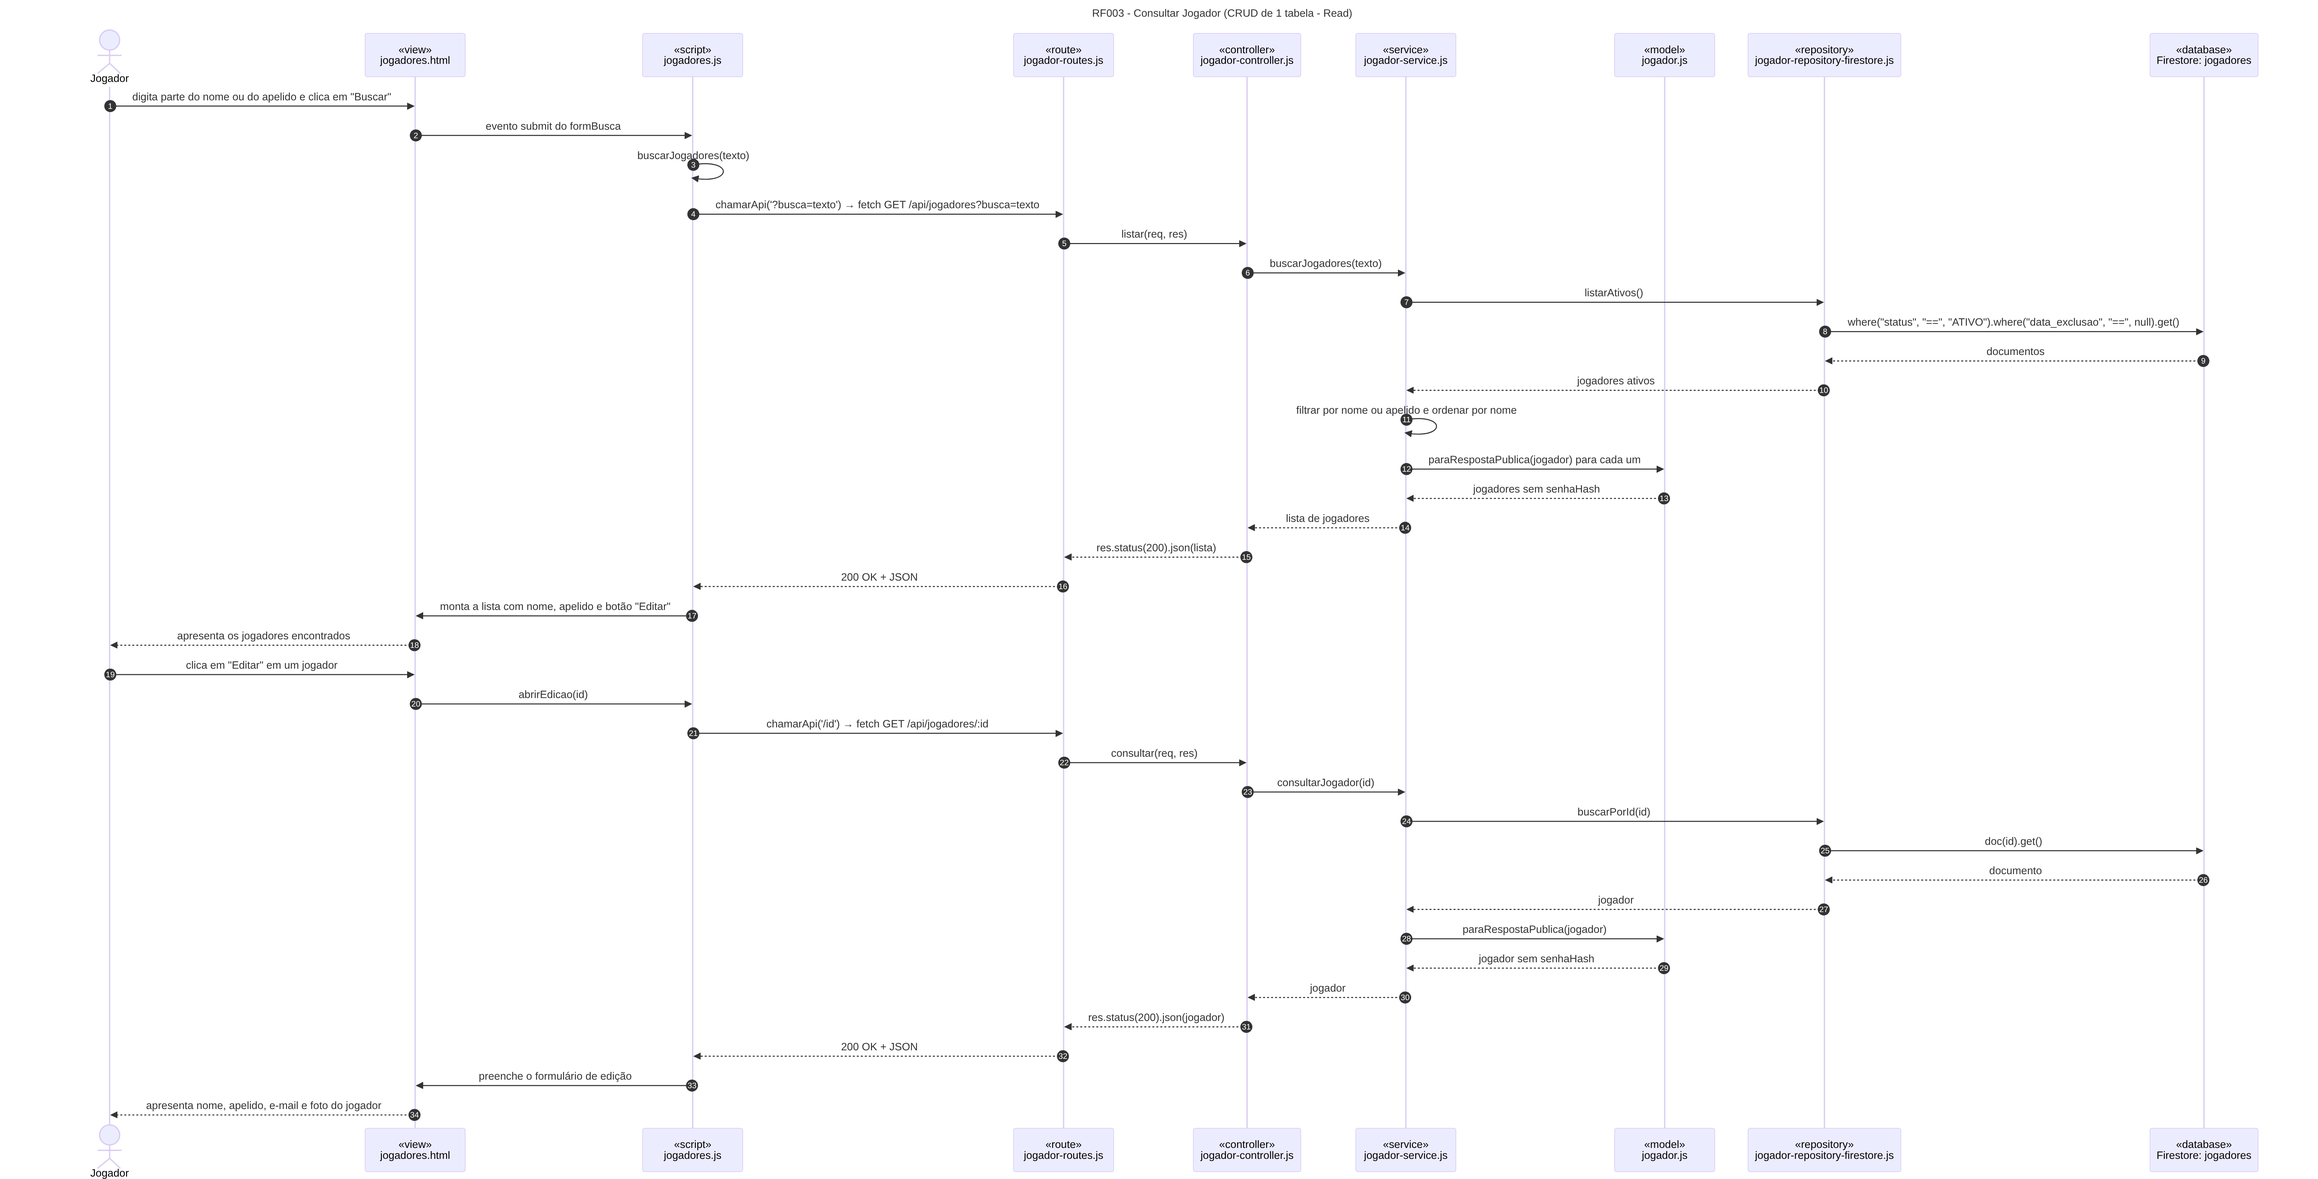
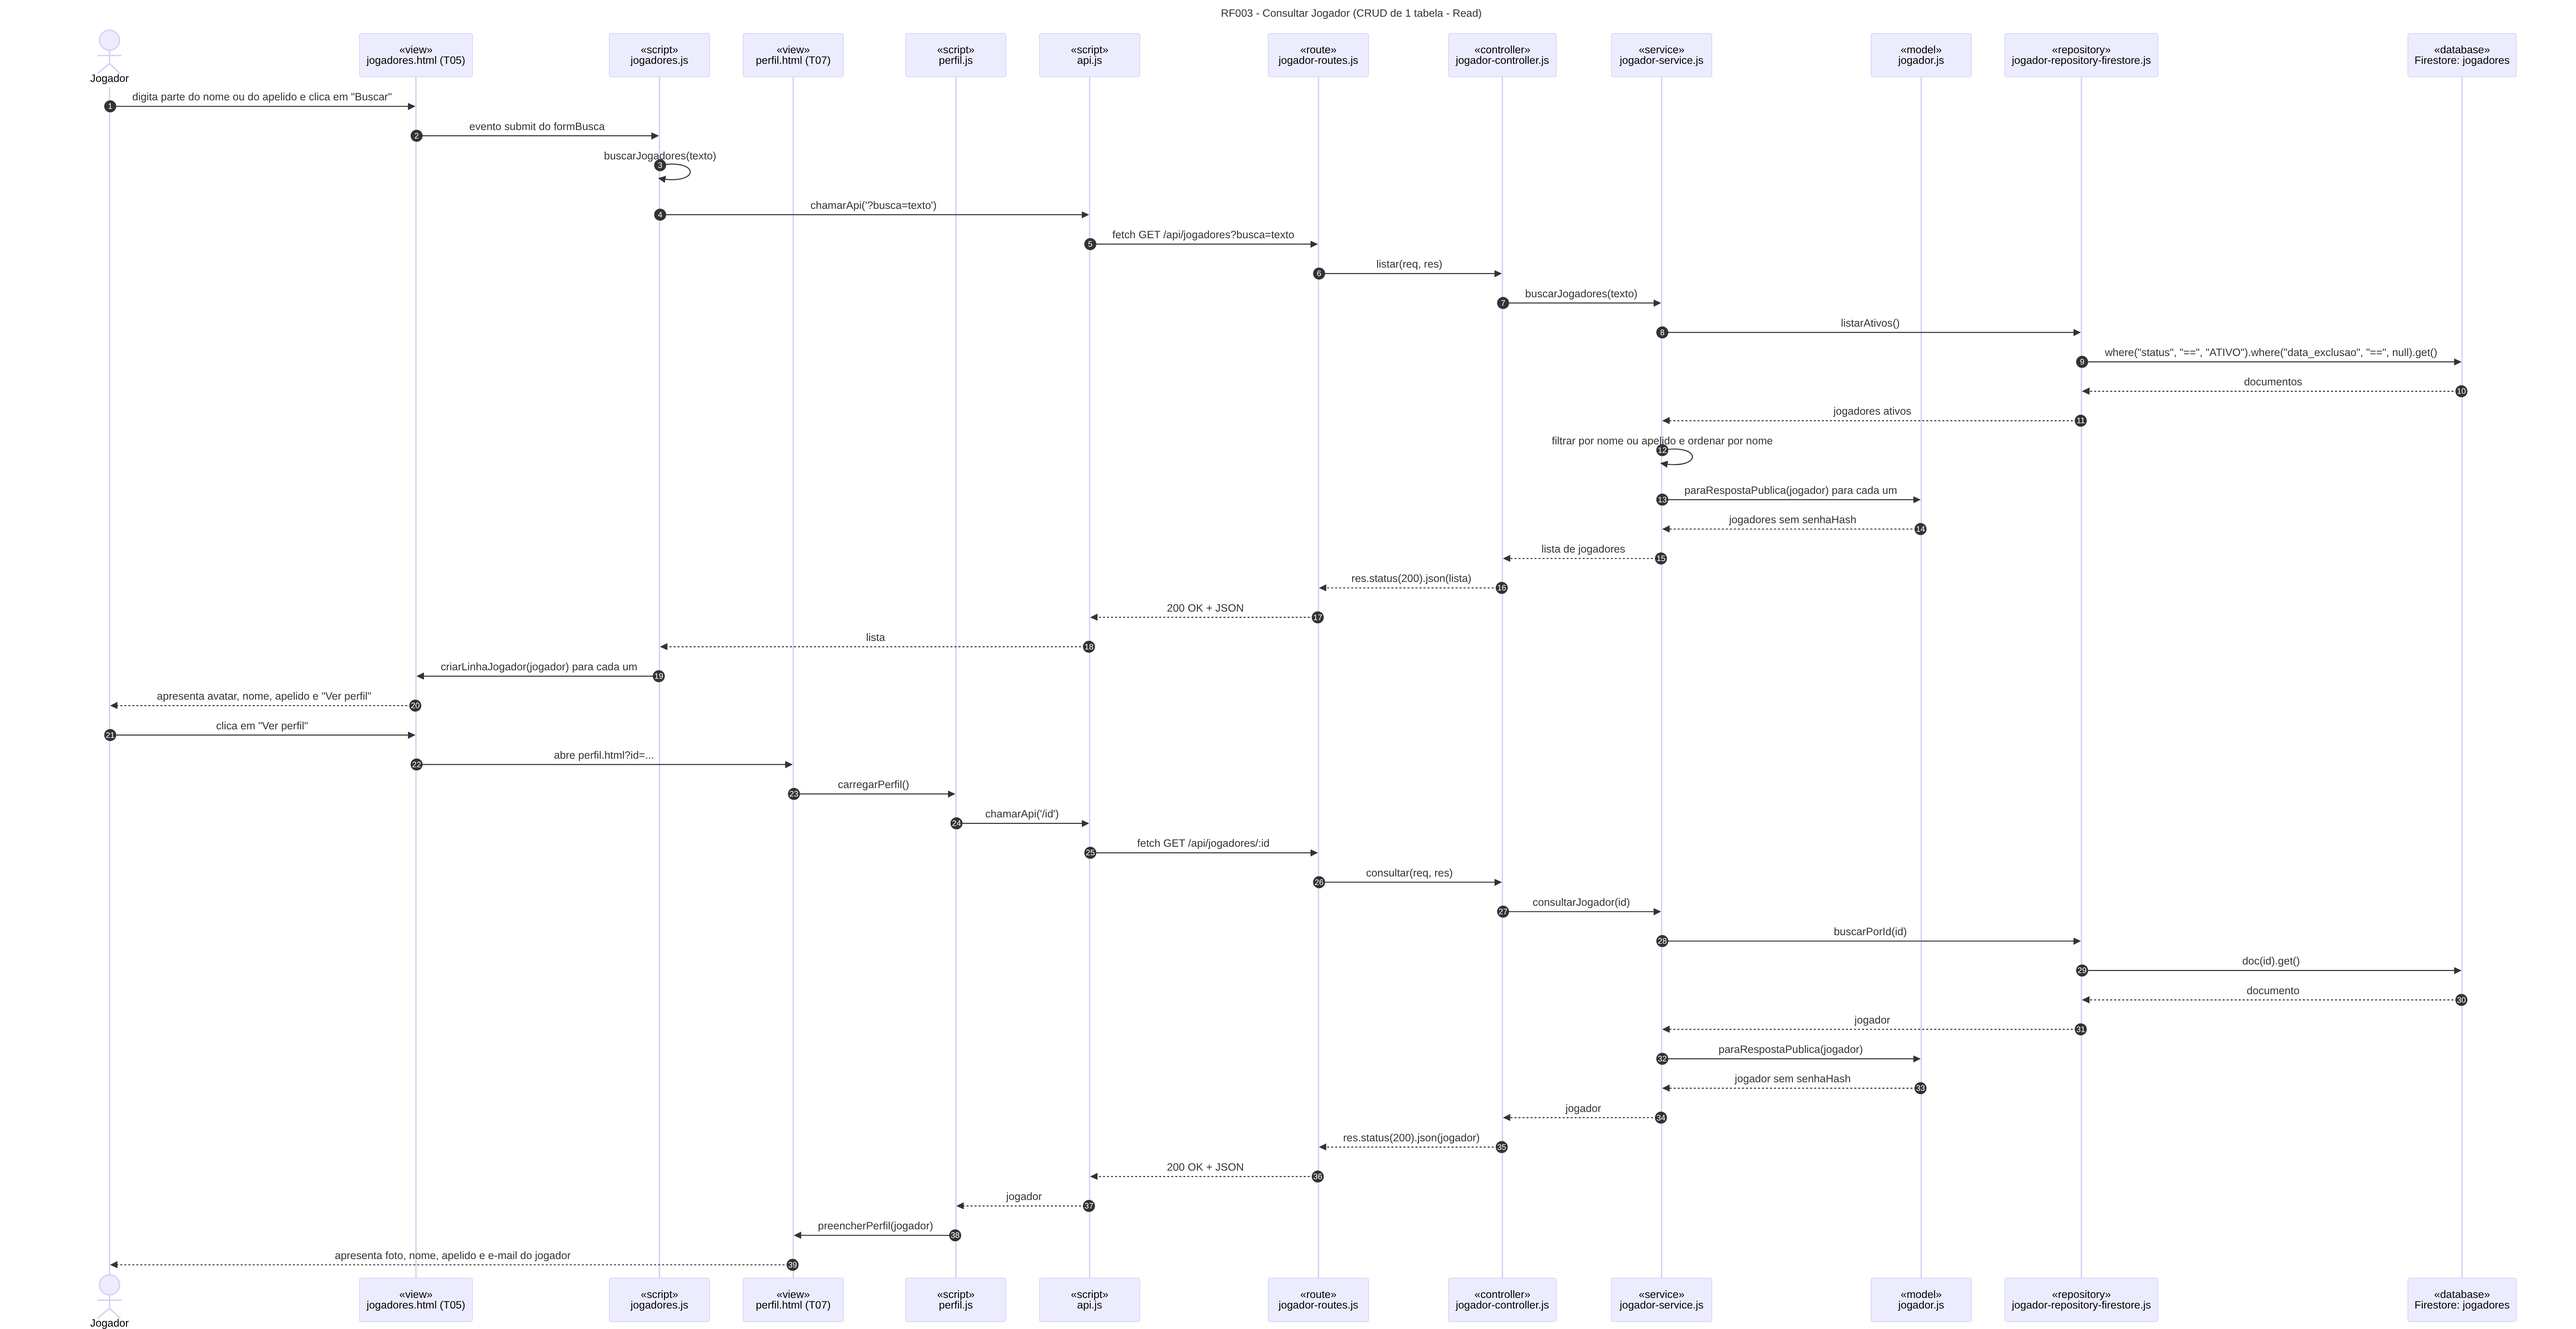
docs(diagramas): segue as telas separadas do protótipo nos diagramas
Os diagramas de sequência do CRUD de Jogador passam a usar
cadastro.html, jogadores.html e perfil.html, com os scripts de cada
tela e o api.js (chamarApi e jogador em uso no localStorage). Os
diagramas de pacotes e de implantação listam as novas páginas e
scripts.

diff --git a/docs/diagramas/README.md b/docs/diagramas/README.md
@@ -200,9 +200,9 @@ flowchart TB
         direction TB
         subgraph FRONT["📦 src/frontend  (front-end)"]
             direction LR
-            PAGES["📁 pages<br/><i>telas HTML</i><br/>index.html, jogadores.html, partidas.html"]
-            JS["📁 js<br/><i>scripts das telas</i><br/>jogadores.js, partidas.js"]
-            CSS["📁 css<br/><i>estilos</i><br/>style.css, jogadores.css"]
+            PAGES["📁 pages<br/><i>telas HTML</i><br/>index.html, cadastro.html, jogadores.html,<br/>perfil.html, partidas.html"]
+            JS["📁 js<br/><i>scripts das telas</i><br/>api.js, layout.js, logo.js, home.js, cadastro.js,<br/>jogadores.js, perfil.js, partidas.js"]
+            CSS["📁 css<br/><i>estilos</i><br/>style.css"]
         end
         ASSETS["📁 public/assets<br/><i>ícones e imagens</i>"]
         NETFN["📁 netlify/functions<br/>api.mjs<br/><i>roda o app Express no Netlify (serverless-http)</i>"]
@@ -272,8 +272,9 @@ title: "RF002 - Cadastrar Jogador (CRUD de 1 tabela - Create)"
 sequenceDiagram
     autonumber
     actor U as Jogador
-    participant T as «view»<br/>jogadores.html
-    participant S as «script»<br/>jogadores.js
+    participant T as «view»<br/>cadastro.html (T02)
+    participant S as «script»<br/>cadastro.js
+    participant A as «script»<br/>api.js
     participant R as «route»<br/>jogador-routes.js
     participant C as «controller»<br/>jogador-controller.js
     participant SV as «service»<br/>jogador-service.js
@@ -284,8 +285,10 @@ sequenceDiagram
 
     U->>T: preenche nome, apelido, e-mail, senha e confirmação e clica em "Criar conta"
     T->>S: evento submit do formCadastro
-    S->>S: lerFormulario(formCadastro)
-    S->>R: chamarApi('', POST) → fetch POST /api/jogadores
+    S->>A: lerFormulario(formCadastro)
+    A-->>S: dados
+    S->>A: chamarApi('', POST, dados)
+    A->>R: fetch POST /api/jogadores
     R->>C: cadastrar(req, res)
     C->>SV: cadastrarJogador(req.body)
     SV->>SV: validar nome, apelido, e-mail, senha e confirmação
@@ -309,10 +312,12 @@ sequenceDiagram
     M-->>SV: jogador sem senhaHash
     SV-->>C: jogador
     C-->>R: res.status(201).location(...).json(jogador)
-    R-->>S: 201 Created + JSON
-    S->>T: exibirMensagem("Conta criada com sucesso!")
-    S->>S: buscarJogadores() (recarrega a lista)
-    T-->>U: mostra a mensagem e a lista atualizada
+    R-->>A: 201 Created + JSON
+    A-->>S: jogador
+    S->>A: salvarJogadorAtual(jogador) (localStorage)
+    S->>A: exibirMensagem("Conta criada com sucesso! Abrindo a Home...")
+    S->>T: redireciona para index.html
+    T-->>U: apresenta a Home (T03)
 ```
 
 <a id="04-seq-consultar-jogador"></a>
@@ -328,8 +333,11 @@ title: "RF003 - Consultar Jogador (CRUD de 1 tabela - Read)"
 sequenceDiagram
     autonumber
     actor U as Jogador
-    participant T as «view»<br/>jogadores.html
+    participant T as «view»<br/>jogadores.html (T05)
     participant S as «script»<br/>jogadores.js
+    participant P as «view»<br/>perfil.html (T07)
+    participant PS as «script»<br/>perfil.js
+    participant A as «script»<br/>api.js
     participant R as «route»<br/>jogador-routes.js
     participant C as «controller»<br/>jogador-controller.js
     participant SV as «service»<br/>jogador-service.js
@@ -340,7 +348,8 @@ sequenceDiagram
     U->>T: digita parte do nome ou do apelido e clica em "Buscar"
     T->>S: evento submit do formBusca
     S->>S: buscarJogadores(texto)
-    S->>R: chamarApi('?busca=texto') → fetch GET /api/jogadores?busca=texto
+    S->>A: chamarApi('?busca=texto')
+    A->>R: fetch GET /api/jogadores?busca=texto
     R->>C: listar(req, res)
     C->>SV: buscarJogadores(texto)
     SV->>RP: listarAtivos()
@@ -352,12 +361,15 @@ sequenceDiagram
     M-->>SV: jogadores sem senhaHash
     SV-->>C: lista de jogadores
     C-->>R: res.status(200).json(lista)
-    R-->>S: 200 OK + JSON
-    S->>T: monta a lista com nome, apelido e botão "Editar"
-    T-->>U: apresenta os jogadores encontrados
-    U->>T: clica em "Editar" em um jogador
-    T->>S: abrirEdicao(id)
-    S->>R: chamarApi('/id') → fetch GET /api/jogadores/:id
+    R-->>A: 200 OK + JSON
+    A-->>S: lista
+    S->>T: criarLinhaJogador(jogador) para cada um
+    T-->>U: apresenta avatar, nome, apelido e "Ver perfil"
+    U->>T: clica em "Ver perfil"
+    T->>P: abre perfil.html?id=...
+    P->>PS: carregarPerfil()
+    PS->>A: chamarApi('/id')
+    A->>R: fetch GET /api/jogadores/:id
     R->>C: consultar(req, res)
     C->>SV: consultarJogador(id)
     SV->>RP: buscarPorId(id)
@@ -368,9 +380,10 @@ sequenceDiagram
     M-->>SV: jogador sem senhaHash
     SV-->>C: jogador
     C-->>R: res.status(200).json(jogador)
-    R-->>S: 200 OK + JSON
-    S->>T: preenche o formulário de edição
-    T-->>U: apresenta nome, apelido, e-mail e foto do jogador
+    R-->>A: 200 OK + JSON
+    A-->>PS: jogador
+    PS->>P: preencherPerfil(jogador)
+    P-->>U: apresenta foto, nome, apelido e e-mail do jogador
 ```
 
 <a id="05-seq-alterar-jogador"></a>
@@ -386,8 +399,9 @@ title: "RF004 - Alterar Jogador (CRUD de 1 tabela - Update)"
 sequenceDiagram
     autonumber
     actor U as Jogador
-    participant T as «view»<br/>jogadores.html
-    participant S as «script»<br/>jogadores.js
+    participant T as «view»<br/>perfil.html (T07)
+    participant S as «script»<br/>perfil.js
+    participant A as «script»<br/>api.js
     participant R as «route»<br/>jogador-routes.js
     participant C as «controller»<br/>jogador-controller.js
     participant SV as «service»<br/>jogador-service.js
@@ -398,8 +412,10 @@ sequenceDiagram
 
     U->>T: altera nome, apelido, foto ou senha e clica em "Salvar"
     T->>S: evento submit do formEdicao
-    S->>S: lerFormulario(formEdicao), sem id e e-mail
-    S->>R: chamarApi('/id', PATCH) → fetch PATCH /api/jogadores/:id
+    S->>A: lerFormulario(formEdicao)
+    A-->>S: alterações (sem o e-mail)
+    S->>A: chamarApi('/id', PATCH, alteracoes)
+    A->>R: fetch PATCH /api/jogadores/:id
     R->>C: alterar(req, res)
     C->>SV: alterarJogador(id, req.body)
     SV->>RP: buscarPorId(id)
@@ -421,10 +437,12 @@ sequenceDiagram
     M-->>SV: jogador sem senhaHash
     SV-->>C: jogador
     C-->>R: res.status(200).json(jogador)
-    R-->>S: 200 OK + JSON
-    S->>T: fecharEdicao() e exibirMensagem("Perfil atualizado com sucesso!")
-    S->>S: buscarJogadores() (recarrega a lista)
-    T-->>U: mostra a mensagem e a lista atualizada
+    R-->>A: 200 OK + JSON
+    A-->>S: jogador
+    S->>T: preencherPerfil(jogador)
+    S->>A: salvarJogadorAtual(jogador), se for o próprio perfil
+    S->>A: exibirMensagem("Perfil atualizado com sucesso!")
+    T-->>U: apresenta o perfil atualizado e a mensagem
 ```
 
 <a id="06-seq-excluir-jogador"></a>
@@ -440,8 +458,9 @@ title: "RF005 - Excluir Jogador (CRUD de 1 tabela - Delete, exclusão lógica)"
 sequenceDiagram
     autonumber
     actor U as Jogador
-    participant T as «view»<br/>jogadores.html
-    participant S as «script»<br/>jogadores.js
+    participant T as «view»<br/>perfil.html (T07)
+    participant S as «script»<br/>perfil.js
+    participant A as «script»<br/>api.js
     participant R as «route»<br/>jogador-routes.js
     participant C as «controller»<br/>jogador-controller.js
     participant SV as «service»<br/>jogador-service.js
@@ -449,10 +468,12 @@ sequenceDiagram
     participant RP as «repository»<br/>jogador-repository-firestore.js
     participant DB as «database»<br/>Firestore: jogadores
 
-    U->>T: na área de edição, digita a senha e clica em "Excluir conta"
+    U->>T: em "Excluir conta", digita a senha e confirma
     T->>S: evento submit do formExclusao
-    S->>S: lerFormulario(formExclusao)
-    S->>R: chamarApi('/id', DELETE, {senha}) → fetch DELETE /api/jogadores/:id
+    S->>A: lerFormulario(formExclusao)
+    A-->>S: {senha}
+    S->>A: chamarApi('/id', DELETE, {senha})
+    A->>R: fetch DELETE /api/jogadores/:id
     R->>C: excluir(req, res)
     C->>SV: excluirJogador(id, req.body.senha)
     SV->>RP: buscarPorId(id)
@@ -462,15 +483,17 @@ sequenceDiagram
     SV->>H: verificarSenha(senha, jogador.senhaHash)
     H-->>SV: true
     SV->>RP: atualizar(id, {dataExclusao: agora})
-    RP->>DB: doc(id).update({data_exclusao})
+    RP->>DB: doc(id).update({data_exclusao}) e doc(id).get()
     DB-->>RP: ok
     RP-->>SV: ok
     SV-->>C: ok
     C-->>R: res.status(204).end()
-    R-->>S: 204 No Content
-    S->>T: fecharEdicao() e exibirMensagem("Conta excluída.")
-    S->>S: buscarJogadores() (recarrega a lista, sem o jogador excluído)
-    T-->>U: mostra a mensagem e a lista atualizada
+    R-->>A: 204 No Content
+    A-->>S: null
+    S->>A: salvarJogadorAtual(null), se for o próprio perfil
+    S->>T: esconde o perfil
+    S->>A: exibirMensagem("Conta excluída.")
+    T-->>U: apresenta a mensagem "Conta excluída."
 ```
 
 <a id="07-seq-criar-partida"></a>
@@ -729,7 +752,7 @@ title: "TrucoHub - Diagrama de Implantação"
 ---
 flowchart LR
     subgraph CLIENTE["«device» Dispositivo do usuário"]
-        FRONTART["<b>«execution environment» Navegador web</b><br/><i>Chrome/Firefox/Edge 120+ (Windows 10+), Safari 17+ (iOS 17+)</i><br/>───────────<br/>«artifact» front-end<br/>index.html, jogadores.html, partidas.html<br/>style.css, jogadores.js, partidas.js"]
+        FRONTART["<b>«execution environment» Navegador web</b><br/><i>Chrome/Firefox/Edge 120+ (Windows 10+), Safari 17+ (iOS 17+)</i><br/>───────────<br/>«artifact» front-end<br/>index.html, cadastro.html, jogadores.html, perfil.html<br/>style.css, api.js, layout.js, home.js, cadastro.js,<br/>jogadores.js, perfil.js"]
     end
 
     subgraph NETLIFY["«device» Servidor Netlify (nuvem)"]
